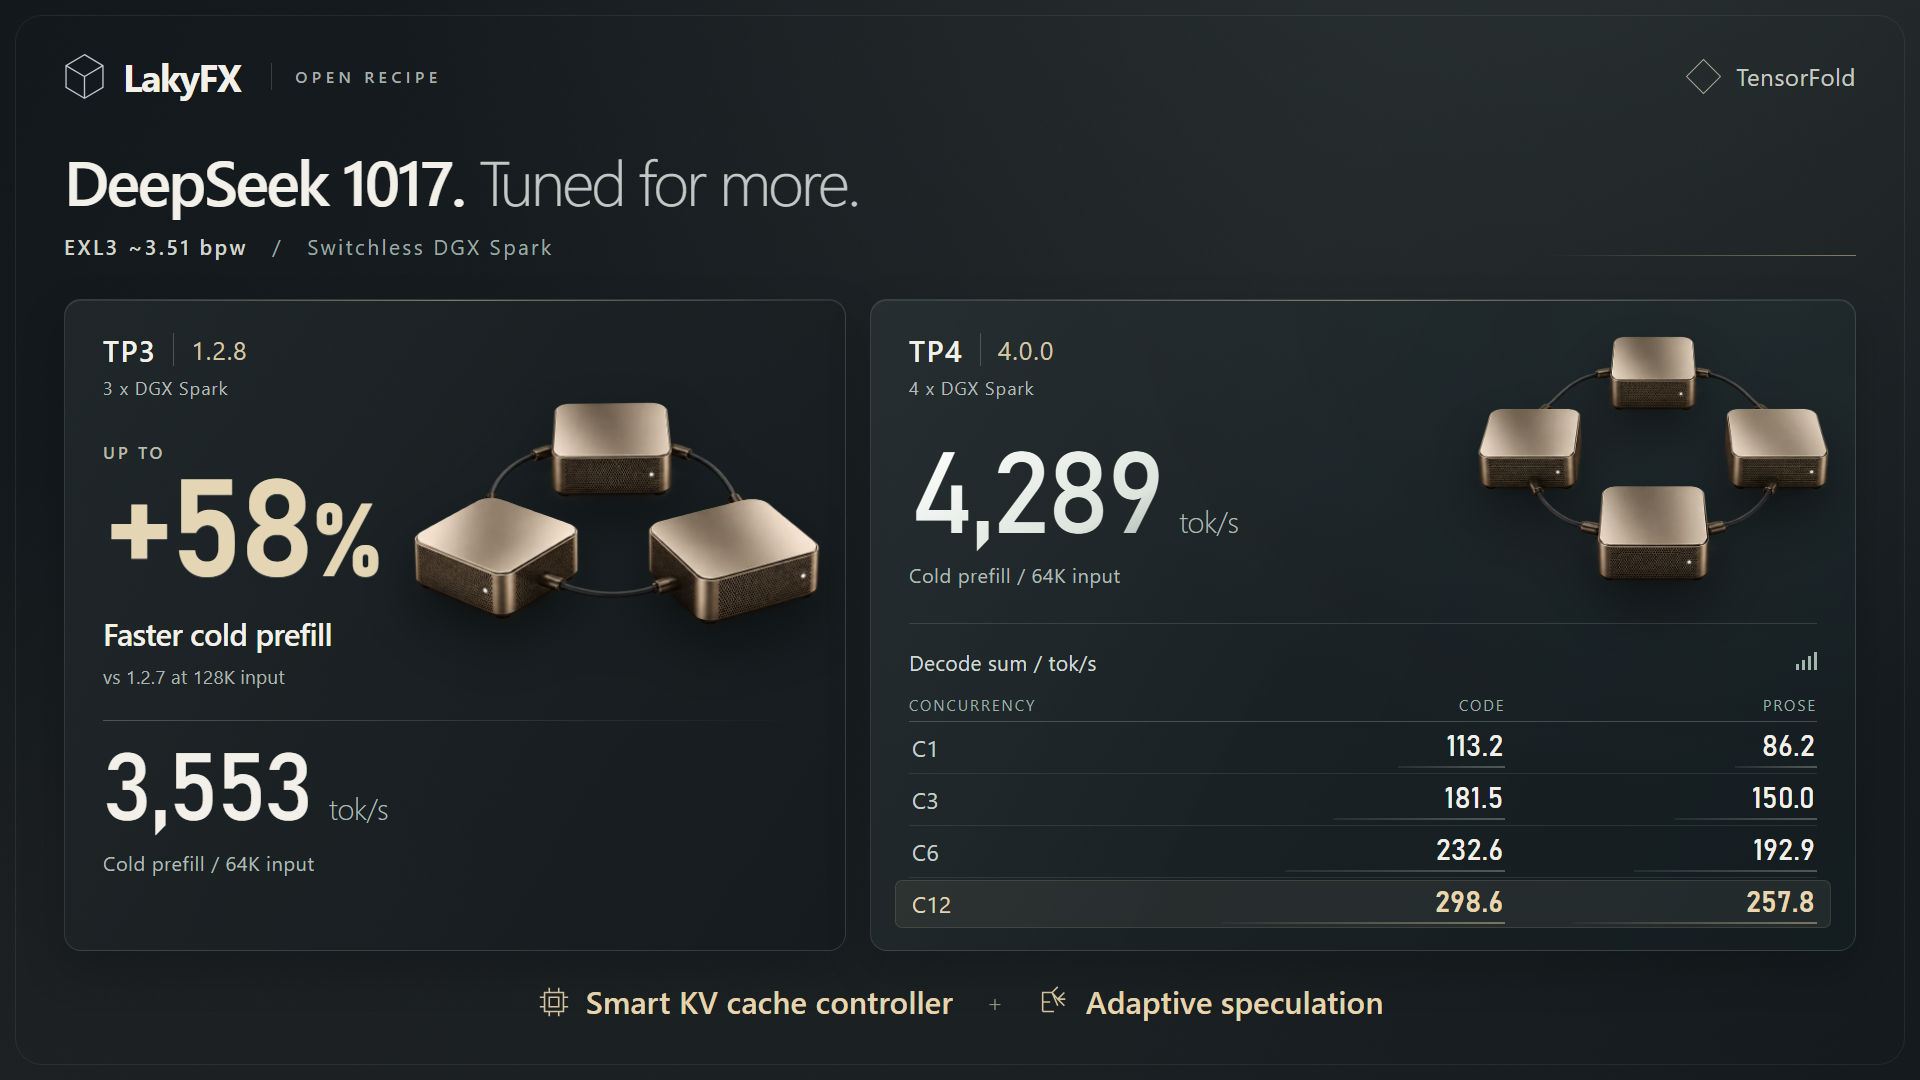
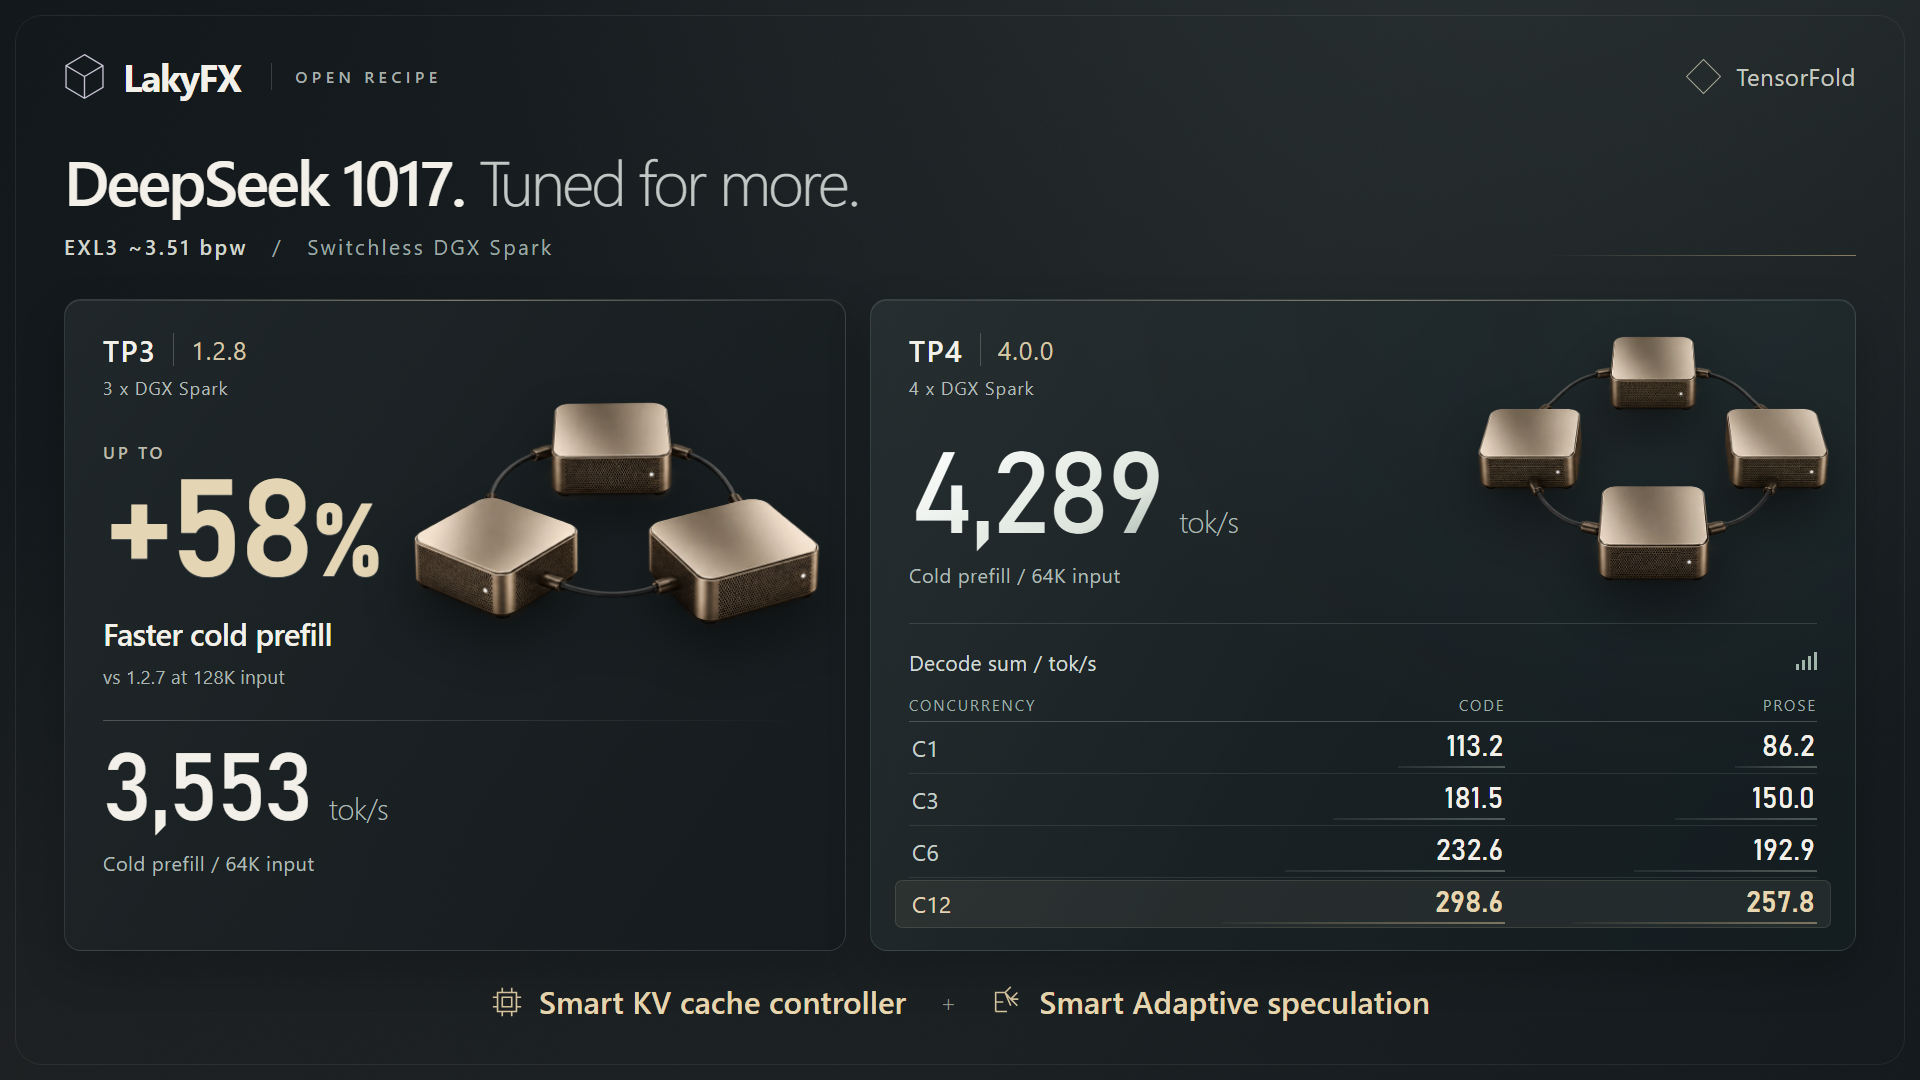
[design] name the smart adaptive speculation feature

Changed region(s): [[0.25, 0.9167, 0.75, 0.9472]]

diff --git a/assets/4.0.0/flyer-source/poster.html b/assets/4.0.0/flyer-source/poster.html
@@ -35,5 +35,5 @@ body{font-family:'Segoe UI',Arial,sans-serif;background:#101518;color:#f2f0e9;-w
    <div class="table"><div class="row header"><span>Concurrency</span><span>Code</span><span>Prose</span></div><div class="row "><span class="load">C1</span><span class="number code" style="--fill:37.743%">113.2</span><span class="number prose" style="--fill:28.748%">86.2</span></div><div class="row "><span class="load">C3</span><span class="number code" style="--fill:60.509%">181.5</span><span class="number prose" style="--fill:50.014%">150.0</span></div><div class="row "><span class="load">C6</span><span class="number code" style="--fill:77.547%">232.6</span><span class="number prose" style="--fill:64.286%">192.9</span></div><div class="row best"><span class="load">C12</span><span class="number code" style="--fill:99.537%">298.6</span><span class="number prose" style="--fill:85.932%">257.8</span></div></div>
   </article>
  </section>
- <div class="features"><span class="feature"><svg viewBox="0 0 36 36"><path d="M8 8H28V28H8Z M13 13H23V23H13Z M13 3V8M23 3V8M13 28V33M23 28V33M3 13H8M3 23H8M28 13H33M28 23H33"/></svg> Smart KV cache controller</span><span class="plus">+</span><span class="feature"><svg viewBox="0 0 36 36"><path d="M6 28V8H16L22 15H30 M16 8 22 2 M16 8 22 22 M22 15 29 8 M22 15 29 22 M6 18H14 M6 28H18"/></svg> Adaptive speculation</span></div>
+ <div class="features"><span class="feature"><svg viewBox="0 0 36 36"><path d="M8 8H28V28H8Z M13 13H23V23H13Z M13 3V8M23 3V8M13 28V33M23 28V33M3 13H8M3 23H8M28 13H33M28 23H33"/></svg> Smart KV cache controller</span><span class="plus">+</span><span class="feature"><svg viewBox="0 0 36 36"><path d="M6 28V8H16L22 15H30 M16 8 22 2 M16 8 22 22 M22 15 29 8 M22 15 29 22 M6 18H14 M6 28H18"/></svg> Smart Adaptive speculation</span></div>
 </main></html>
